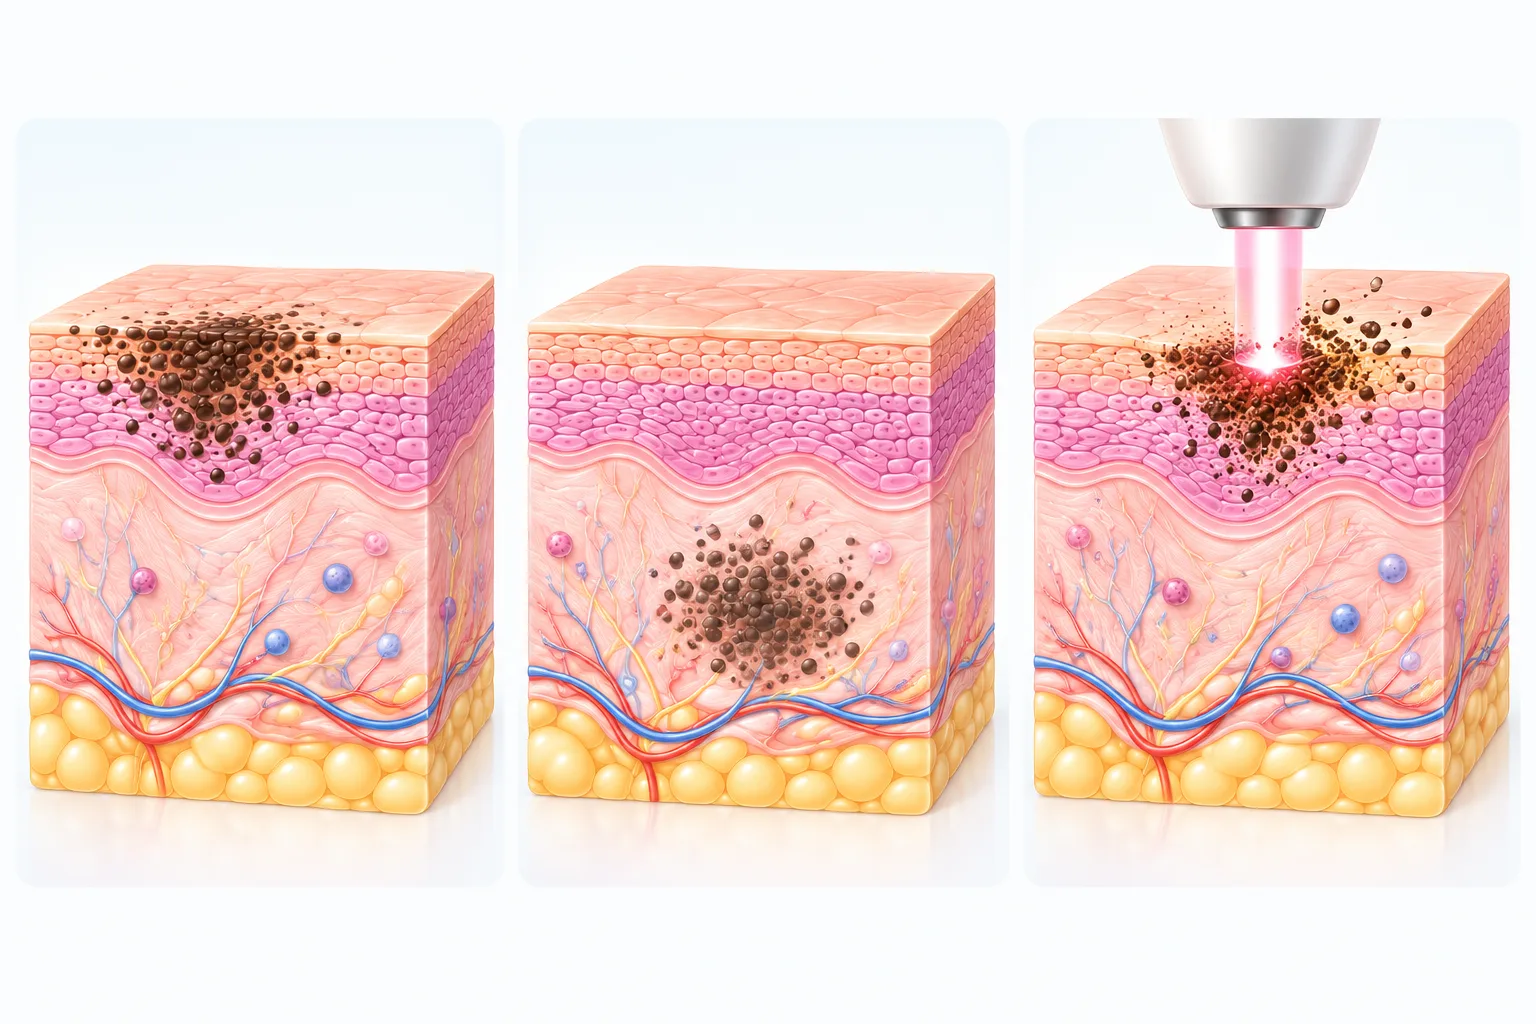
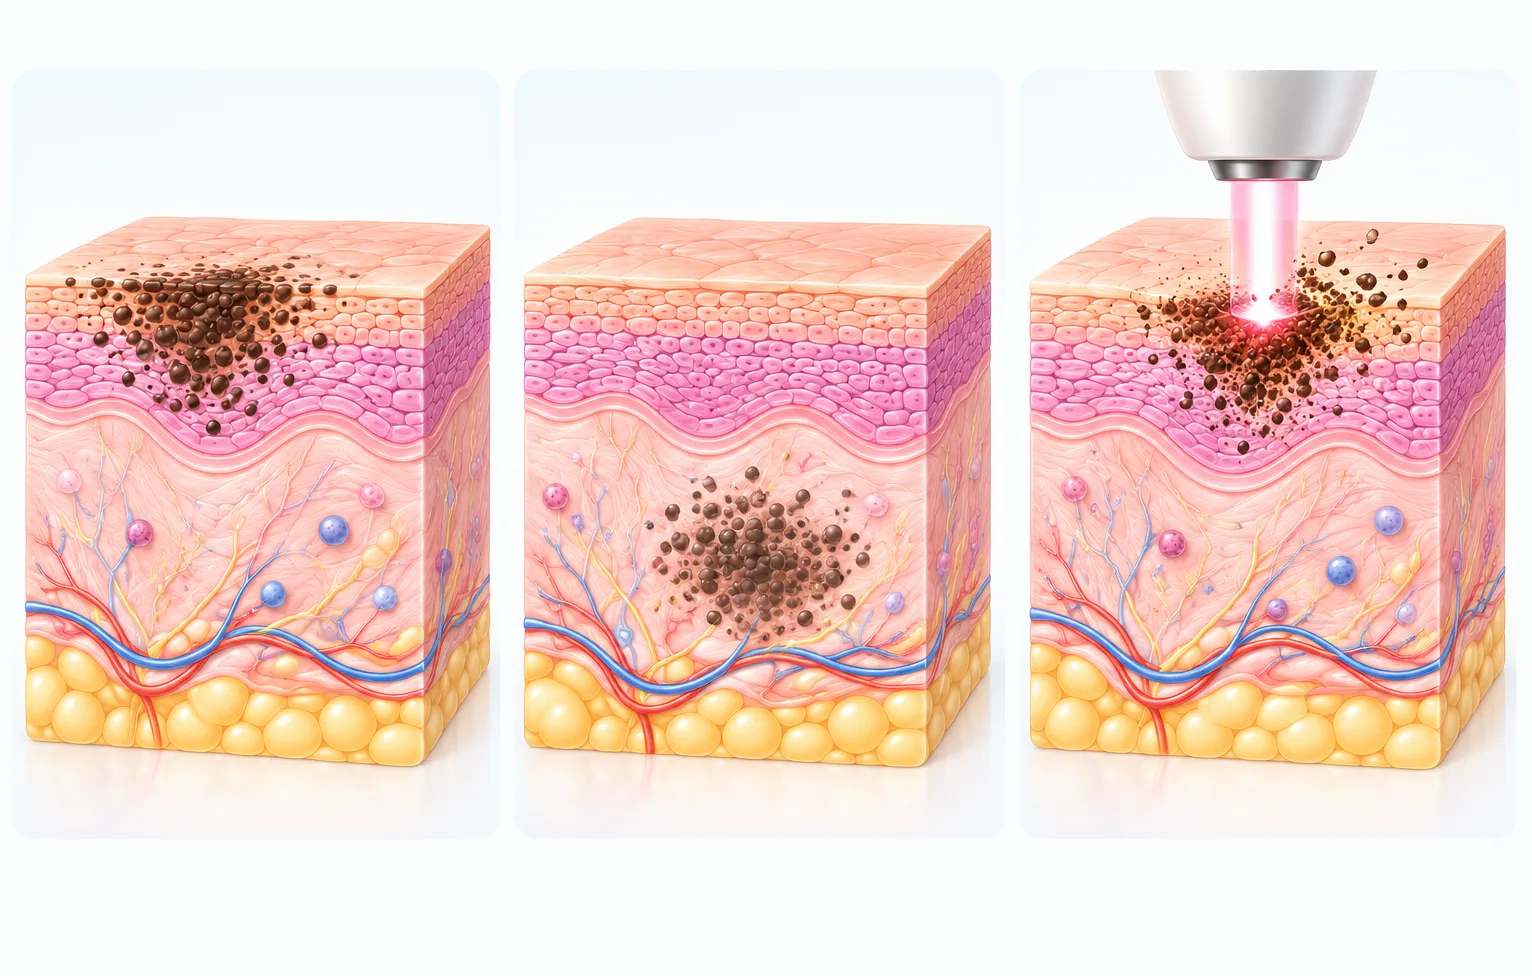
fix: 색斑·痘疤 카드 AI 생성 가짜 真实案例 사진 삭제, 일러스트 여백 타이트하게 크롭
- 여드름 치료 전후 사진이 AI 생성 이미지인데 "真实案例(실제 사례)"로
  표기되어 있어 통째로 제거 (관련 治疗参考方案 텍스트 카드도 함께 삭제)
- REEPOT 원리/듀오덤 관리 일러스트 상하 여백을 이미지 프레임에 바짝 붙게 크롭

diff --git a/src/data/skinAestheticsKeywords.ts b/src/data/skinAestheticsKeywords.ts
@@ -690,21 +690,6 @@ export const SKIN_AESTHETICS_KEYWORDS: SkinAestheticsKeyword[] = [
         en: "※ Follow your doctor's instructions regarding dressing duration and replacement.",
       },
     },
-    realCase: {
-      photos: [
-        {
-          src: '/case-photos/skin-before-after-1.png',
-          alt: { zh: '痤疮治疗前后对比', en: 'Acne treatment before/after' },
-        },
-      ],
-      planTitle: { zh: '治疗参考方案', en: 'Reference Treatment Plan' },
-      planTag: { zh: '炎症性痤疮控制 + 色素沉着及痘印改善', en: 'Inflammatory acne control + pigmentation & acne-mark improvement' },
-      planNotes: [
-        { zh: '初期可根据皮肤状态，每2周左右进行1次治疗，之后逐渐调整治疗间隔。', en: 'Initially, treatment may be scheduled roughly every 2 weeks depending on skin condition, with the interval adjusted gradually afterward.' },
-        { zh: '若炎症反复或色素沉着较明显，整体改善过程可能需要 6～12个月，甚至更长时间。', en: 'If inflammation recurs or pigmentation is more pronounced, overall improvement may take 6–12 months or longer.' },
-      ],
-      planHighlight: { zh: '具体治疗方案需由医生面诊后决定。', en: 'The specific treatment plan must be determined by a doctor through an in-person consultation.' },
-    },
     note: {
       zh: '关于各激光设备的功效详情，请点击橙色咨询按钮进行咨询。',
       en: 'For details on the efficacy of each laser device, please click the orange consultation button to ask.',
